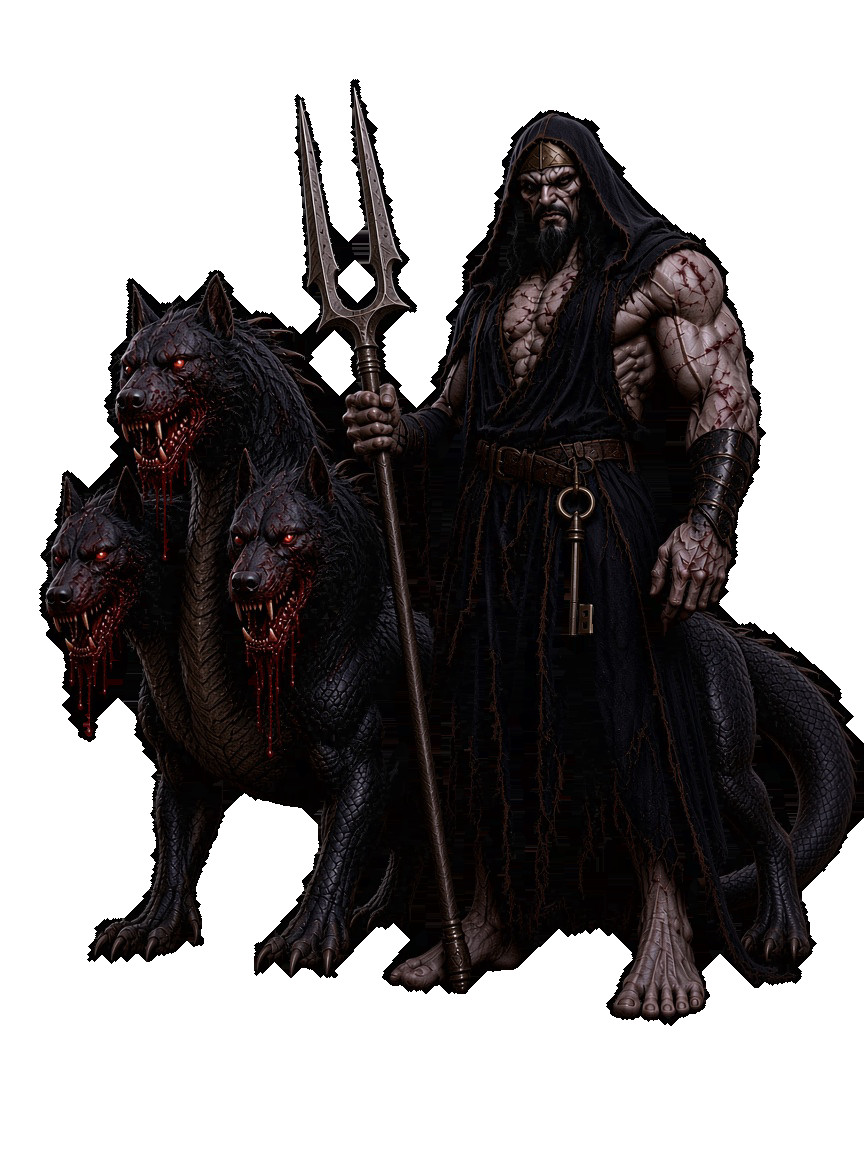
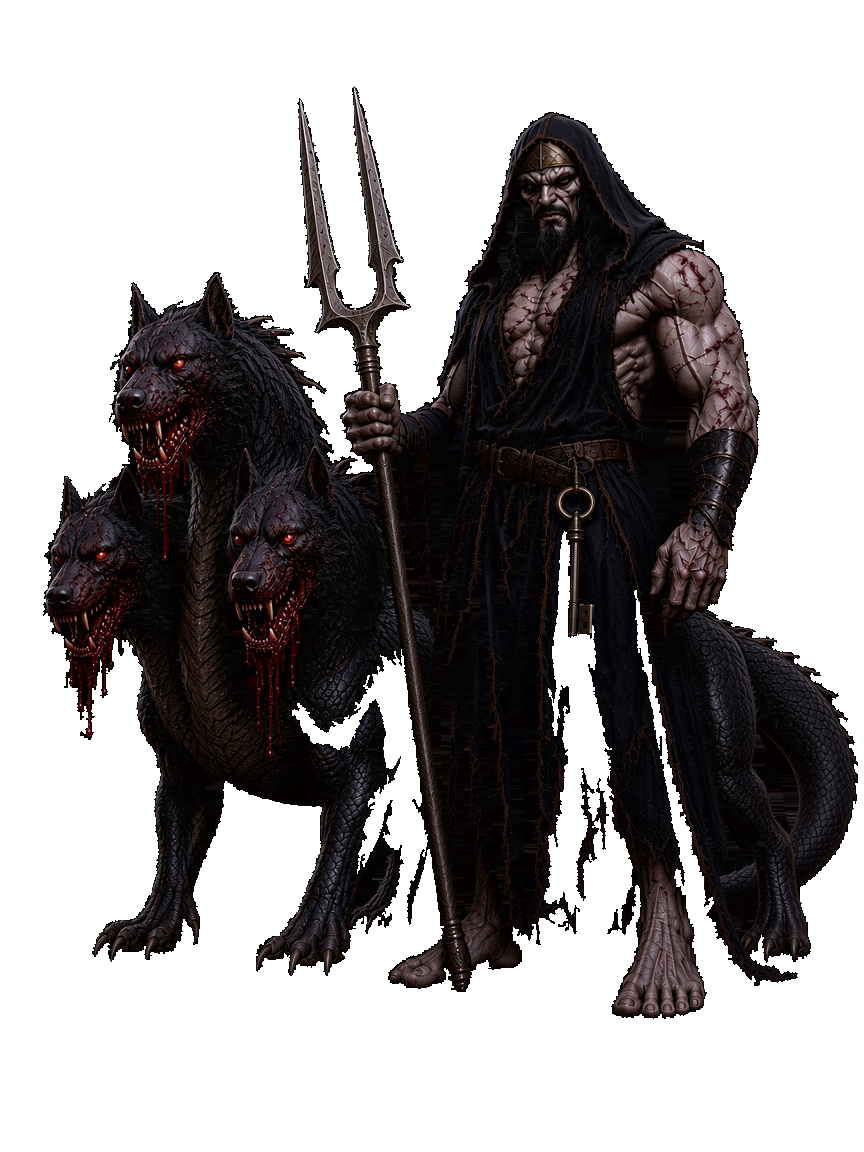
ハデスの切り抜きを、黒い余白を残さない線まで詰める。

diff --git a/index.html b/index.html
@@ -12319,7 +12319,7 @@
               ${sheetFig("enemy-dragon.png?v=4", "ちびドラゴン", "enemy-ref")}
               ${sheetFig("enemy-death-dragon.png?v=1", "デスドラゴン", "enemy-ref")}
               ${sheetFig("enemy-beggar.png?v=2", "物乞い", "enemy-ref")}
-              ${sheetFig("enemy-hades.png?v=7", "ハデス", "enemy-ref")}
+              ${sheetFig("enemy-hades.png?v=8", "ハデス", "enemy-ref")}
               ${sheetFig("enemy-ram.png?v=1", "羊頭のデーモン", "enemy-ref")}
               ${sheetFig("enemy-gargoyle.png?v=1", "ガーゴイル", "enemy-ref")}
               ${sheetFig("enemy-merfolk.png?v=1", "マーフォーク", "enemy-ref")}
